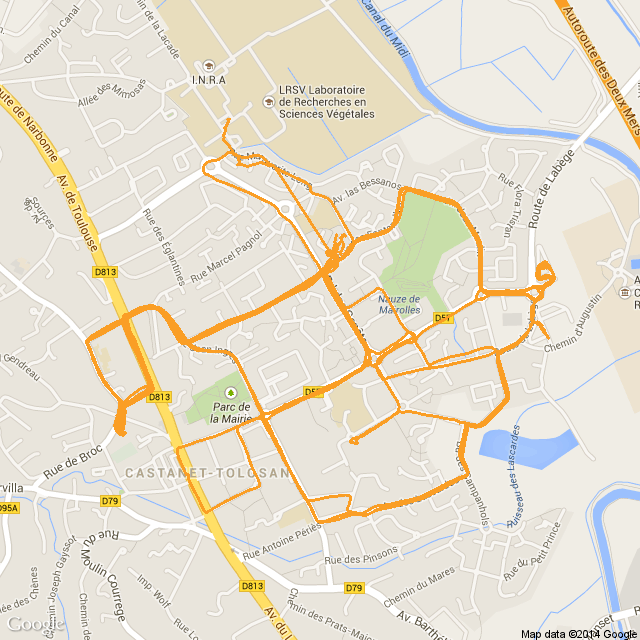
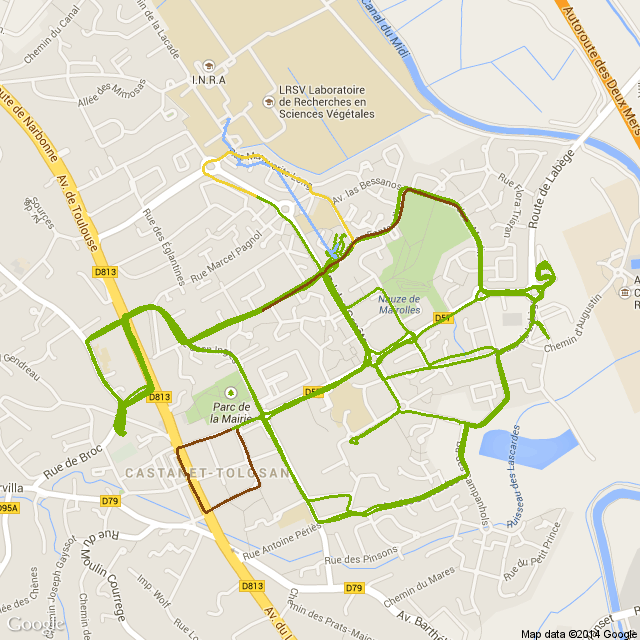
automated anomaly plots

diff --git a/src/edu/hawaii/jmotif/hilbert/anomaly/CastanetAnomaly.java b/src/edu/hawaii/jmotif/hilbert/anomaly/CastanetAnomaly.java
@@ -44,7 +44,7 @@ public class CastanetAnomaly {
   private static final Color HILBERT_CURVE_COLOR = new Color(142, 229, 239);
 
   // cornflowerblue
-  private static final Color GPX_PATH_COLOR = new Color(255, 64, 64);
+  private static final Color GPX_PATH_COLOR = new Color(50, 205, 50);
 
   // http://maps.googleapis.com/maps/api/staticmap?center=43.5204,1.5044&zoom=15&size=640x640&sensor=false
   private static final String STATIC_MAP_FILENAME = "data/period/maps/staticmap_zoom15.png";
@@ -87,7 +87,8 @@ public class CastanetAnomaly {
     Graphics graphics = staticMap.getGraphics();
     graphics.setColor(GPX_PATH_COLOR);
 
-    for (Point2D.Double p : runningPath) {
+    for (int i = 0; i < runningPath.size(); i++) {
+      Point2D.Double p = runningPath.get(i);
       // current LatLNg point to X,Y coordinates of 256px MERCATOR map
       Point2D point = MercatorFactory.fromLatLngToPoint(p);
       // adjust X and Y according to the current ZOOM level
@@ -111,6 +112,8 @@ public class CastanetAnomaly {
       Shape theCircle = new Ellipse2D.Double(x - GPX_POINT_RADIUS, y - GPX_POINT_RADIUS,
           2.0 * GPX_POINT_RADIUS, 2.0 * GPX_POINT_RADIUS);
       ((Graphics2D) graphics).draw(theCircle);
+
+      graphics.setColor(GPX_PATH_COLOR);
     }
 
     // save the map with path
